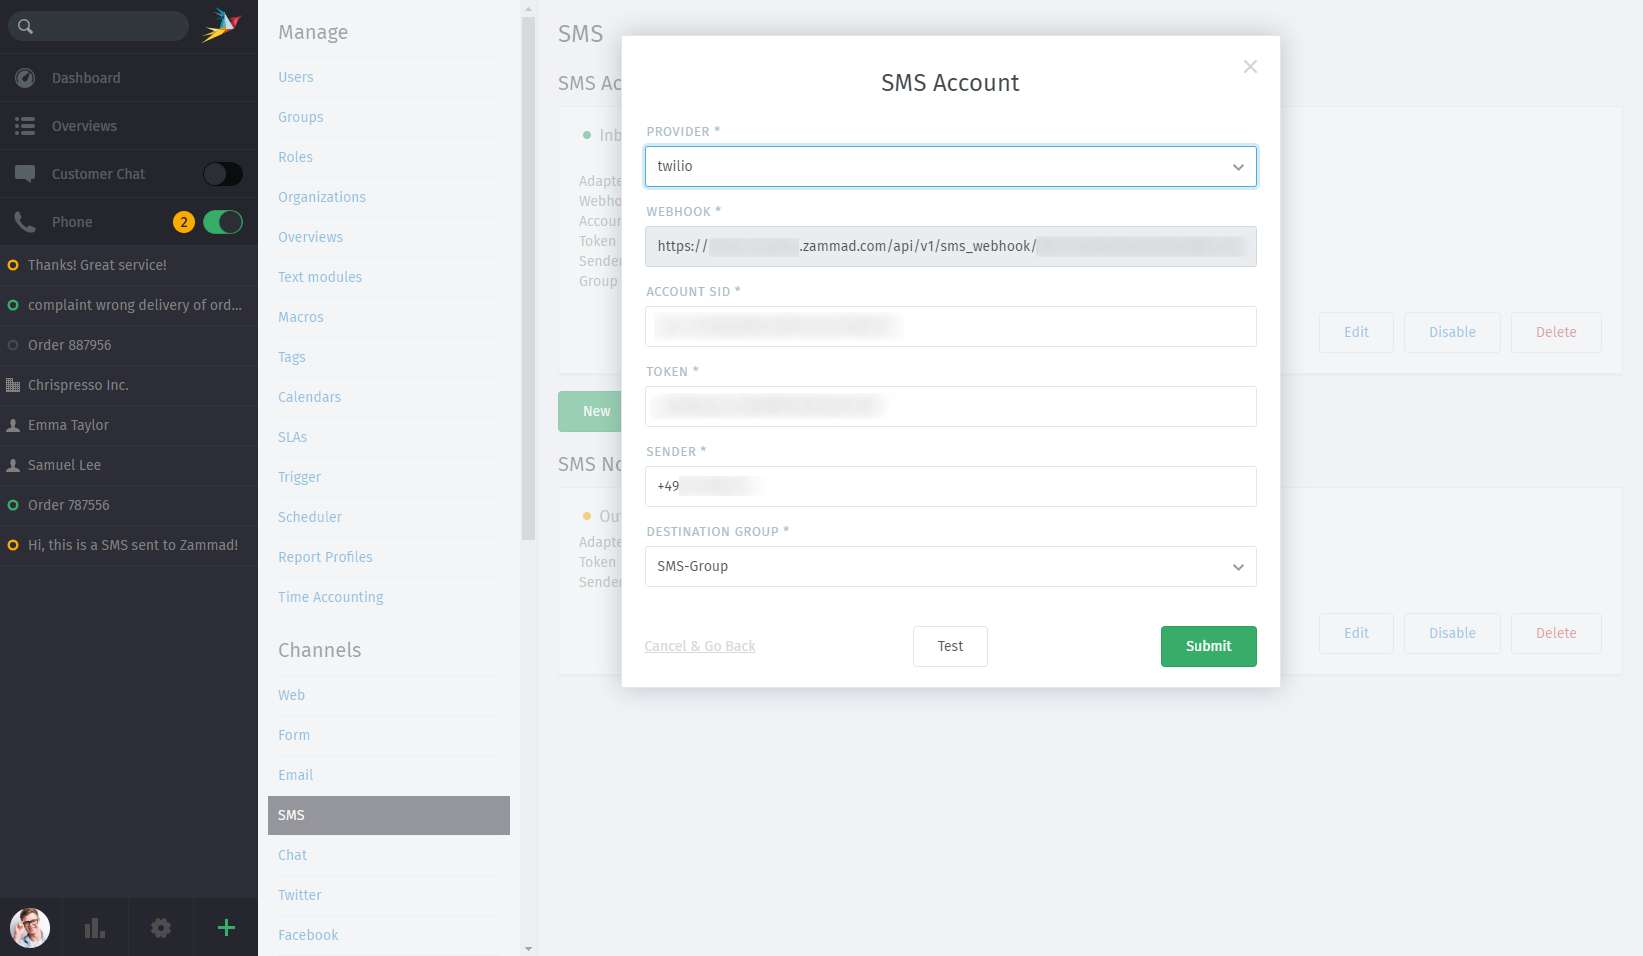
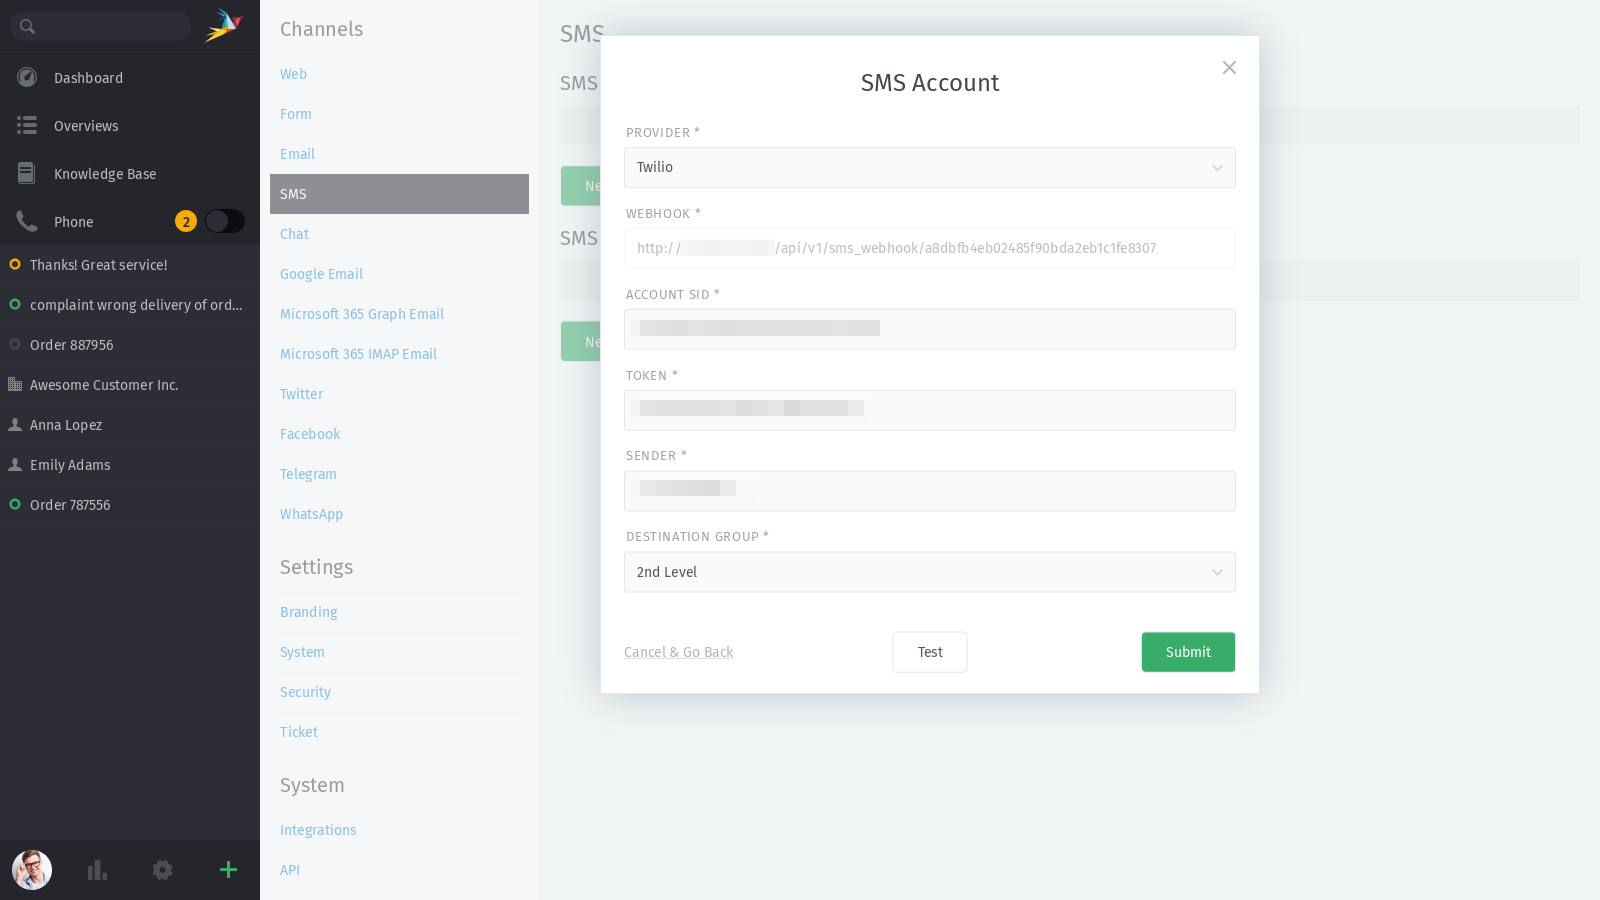
Fixes #275 - Updated SMS channel setup

diff --git a/channels/sms.rst b/channels/sms.rst
@@ -4,64 +4,84 @@ SMS
 SMS integration primarily lets you create tickets, add articles and respond to
 tickets via SMS. It is also possible to send notifications, e.g. to agents.
 
-You can configure SMS notifications in the admin interface under
-**Channels > SMS**.
+You can configure the SMS channel in the admin interface under
+*Channels > SMS*.
 
-Configure Incoming SMS
-----------------------
+.. note::
+   - MessageBird and Twilio are currently the only supported providers to
+     process incoming messages.
+   - Our configuration example below is based on Twilio.
+   - This guide assumes you have a Twilio account with an assigned number which
+     is capable of sending and receiving SMS.
 
-MessageBird and Twilio are currently the only supported providers to process
-incoming messages. Setting up the channel requires your account SID and an
-authentication token. You can find an example for the Twilio configuration in
-the following screenshots.
+Configure Twilio
+----------------
+
+- In the Zammad settings, go to *Channels > SMS* and click on the ``New`` button
+- After selecting Twilio as provider, you can find your webhook URL in the
+  **Webhook** field. Copy the complete URL and switch back to the Twilio
+  console.
+- Go to the `Twilio console <https://console.twilio.com>`_ and log in.
+- Go to the configuration of your number you want to use with Zammad, switch to
+  the **Configure** tab and scroll to **Messaging Configuration**.
+- Paste it for the "A message comes in" event in the **URL** field and make sure
+  to select ``HTTP POST`` as HTTP option as in the following screenshot:
+
+.. figure:: /images/channels/sms/sms_twilio_config.png
+   :alt: Twilio number configuration
+   :align: center
+
+Make sure to save the changes and go on with the next step.
+
+Configure SMS Account
+---------------------
+
+To set up the channel, your account ID and the authentication token are
+required. You can find them in Twilio's
+`welcome screen <https://console.twilio.com/?frameUrl=/console>`_ for example.
 
 .. figure:: /images/channels/sms/sms_twilio1.png
    :alt: Twilio settings
    :align: center
 
-
-Enter these in the Zammad admin interface at SMS accounts.
+Copy and paste them into the corresponding fields in the SMS config dialog:
 
 .. figure:: /images/channels/sms/sms_channel_settings.png
    :alt: Channel settings SMS
    :align: center
 
+Additionally, you have to enter a sender number and select a destination group
+which receives the tickets of this channel. The sender number is what is show
+as sender to the customer. You can even add a name here.
 
-Further options are to enter a sender number and select a destination group.
-The sender number is published when sending SMS from the ticket. Names
-can also be entered. "Destination group" is relevant for incoming SMS
-that can't be assigned to a specific ticket.
+You can now ``Test`` your configuration by clicking the button. After
+successfully testing your configuration, save it by clicking the ``Submit``
+button.
 
-After setting it all up, an SMS article could look like this in the ticket view:
+Communication via SMS is now available in Zammad.
 
-.. figure:: /images/channels/sms/sms_ticket_creation.png
-   :alt: Channel settings SMS
-   :align: center
+Configure SMS Notifications
+---------------------------
 
-Communication via SMS is available directly from inside Zammad.
+It's also possible to use the SMS channel to send notifications from the system
+(e.g. from trigger or automation). To set it up, click on the ``New`` button
+in the **SMS Notification** section.
 
-Notifications via SMS
----------------------
+.. note::
+   - Supported providers: Massenversand, MessageBird and Twilio
+   - Please note that users must have a mobile phone number to get notified by
+     SMS. If there is no phone number assigned, no SMS will be sent.
 
-It's also possible to receive notifications via SMS. These are messages sent by
-trigger or automation. Setup is done in the admin interface at
-**Channels > SMS**.
-
-As service providers, Massenversand, MessageBird and Twilio are supported.
-
-Please specify the account ID and a token here. Furthermore it is possible to
-enter a phone number or name to be shown to the recipient.
+The setup is the same as above: Select your provider, provide the details
+(Account SID, token) and enter a sender number or name. After that, you can
+test your configuration. If successful, save your changes by clicking the
+``Submit`` button.
 
 .. figure:: /images/channels/sms/sms_notification.png
    :alt: Notification settings
    :align: center
 
-You can either save your configuration directly, or let your settings be
-checked by running a test in advance.
-
 Now it's possible to send SMS notifications via trigger or automation. The setup
 is done the same way as setting up
 :doc:`email notifications </channels/email/accounts/email-notification>`.
-Please note that the user object belonging to the person you want to notify must
-contain a mobile phone number as an attribute. If there is no phone number
-registered, no SMS will be sent.
+
